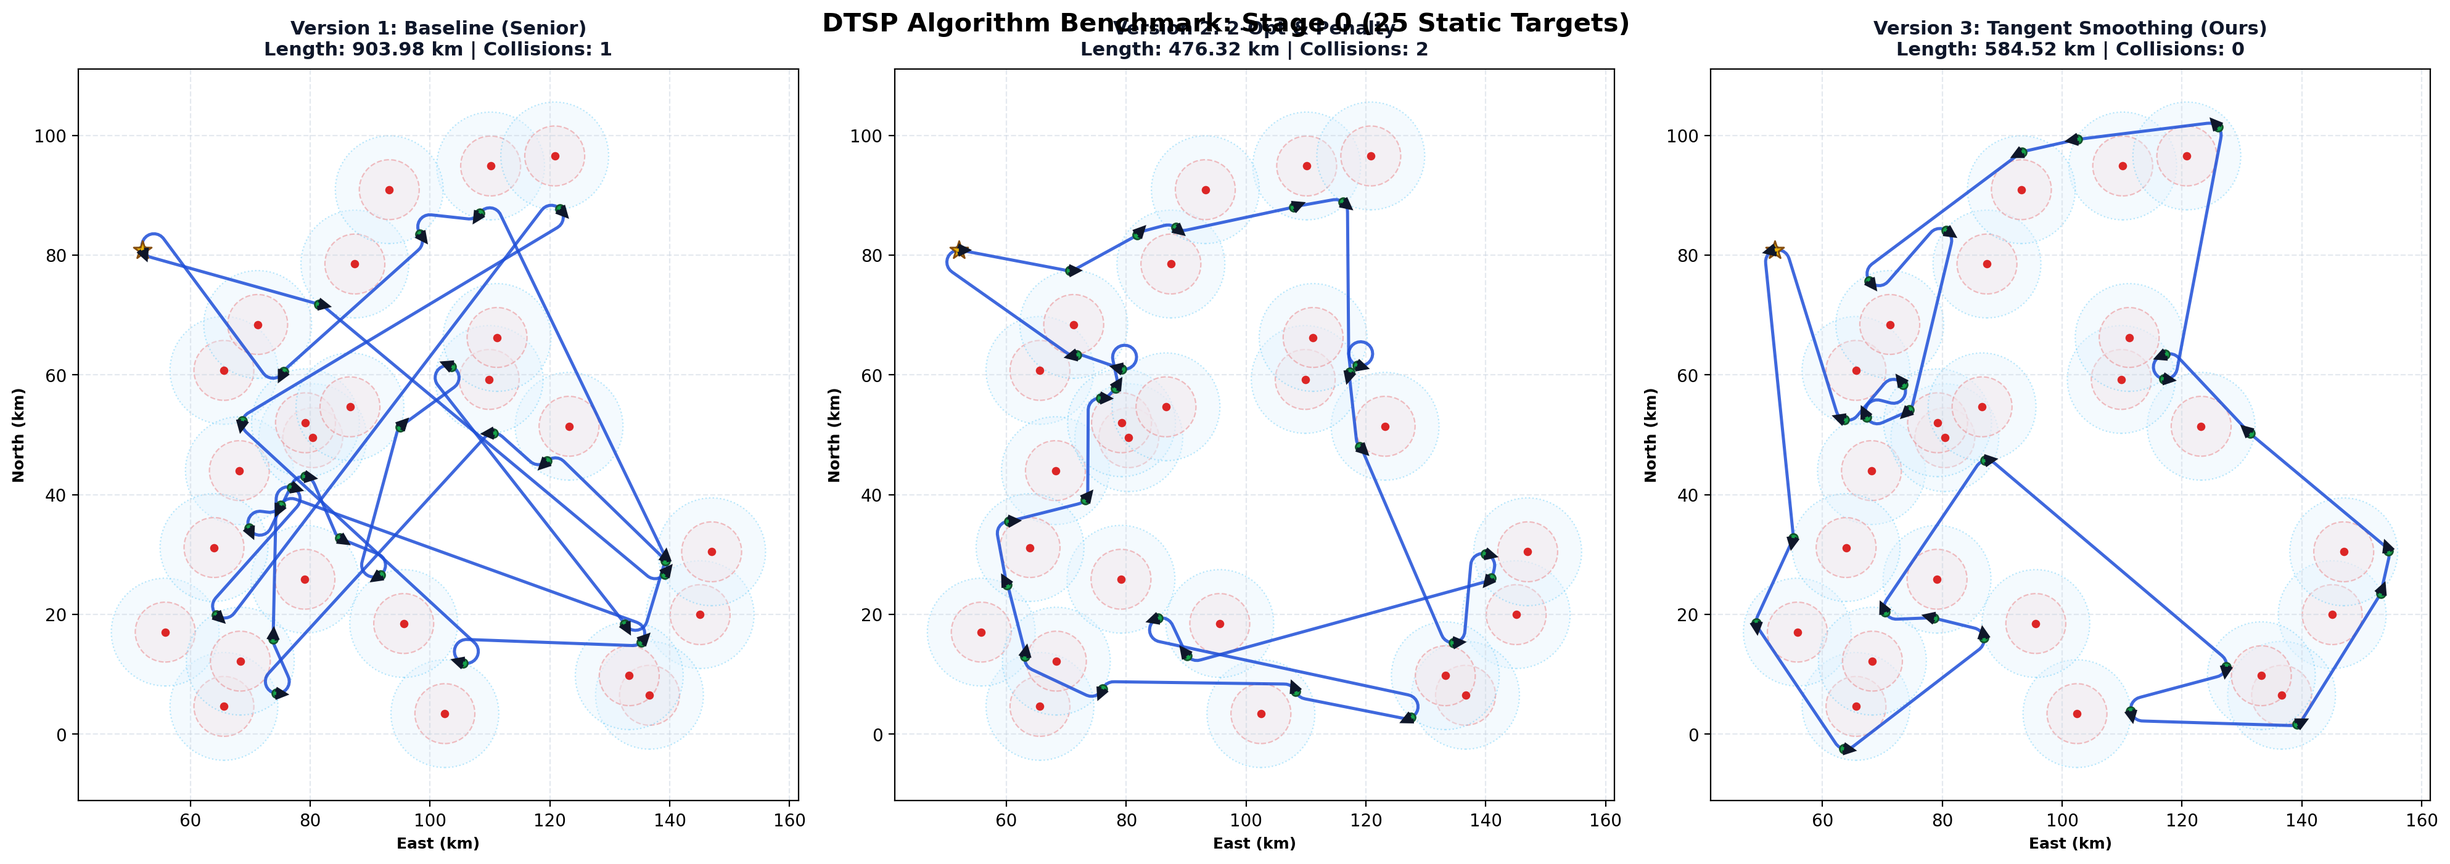
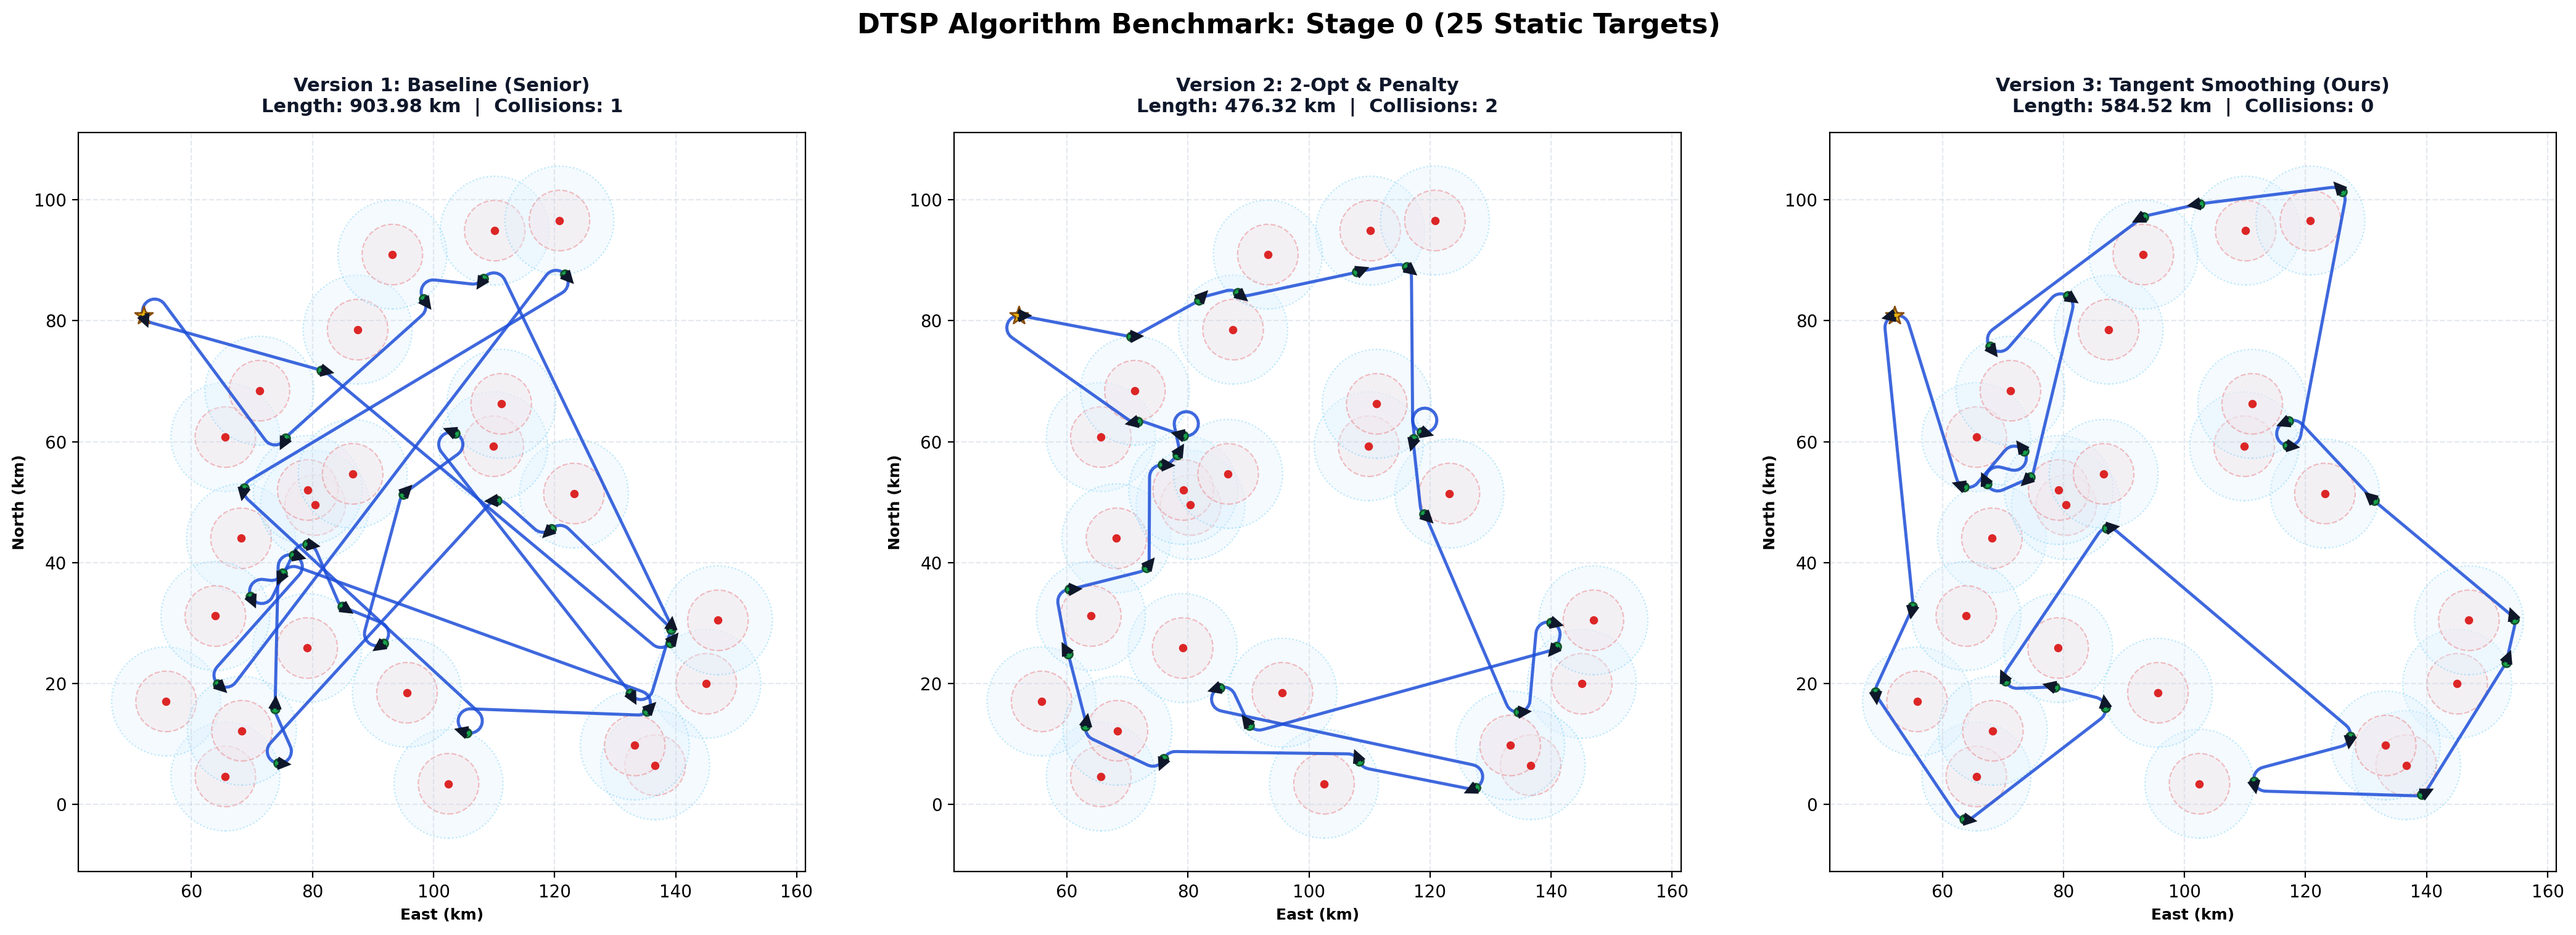
Fix: Adjust title spacing and layout rect to eliminate text overlap

diff --git a/compare_versions.py b/compare_versions.py
@@ -497,7 +497,7 @@ class Version3_TangentSmoothing(DTSPNSolverBase):
 
 def draw_single_panel(ax, centers, indices, points, start_node_idx, title, sub_title, cost_calculator):
     ax.set_facecolor('white')
-    ax.set_title(f"{title}\n{sub_title}", fontsize=11, fontweight='bold', pad=8, color='#0f172a')
+    ax.set_title(f"{title}\n{sub_title}", fontsize=11, fontweight='bold', pad=12, color='#0f172a')
     ax.set_xlabel("East (km)", fontsize=9, fontweight='bold')
     ax.set_ylabel("North (km)", fontsize=9, fontweight='bold')
     ax.grid(True, linestyle='--', color='#cbd5e1', alpha=0.5)
@@ -631,33 +631,35 @@ def run_benchmark():
     cost_calc = DubinsCost(2.0)
     
     # --- 圖 1: Stage 0 對比圖 ---
-    fig_0, axes_0 = plt.subplots(1, 3, figsize=(20, 6.8), dpi=200)
-    fig_0.suptitle("DTSP Algorithm Benchmark: Stage 0 (25 Static Targets)", fontsize=15, fontweight='bold', y=0.98)
+    fig_0, axes_0 = plt.subplots(1, 3, figsize=(22, 7.5), dpi=200)
+    fig_0.suptitle("DTSP Algorithm Benchmark: Stage 0 (25 Static Targets)", fontsize=16, fontweight='bold', y=0.98)
     
     draw_single_panel(axes_0[0], static_centers, v1_idx_0, v1_pts_0, start_node_idx, 
-                      "Version 1: Baseline (Senior)", f"Length: {v1_len_0:.2f} km | Collisions: {v1_col_0}", cost_calc)
+                      "Version 1: Baseline (Senior)", f"Length: {v1_len_0:.2f} km  |  Collisions: {v1_col_0}", cost_calc)
     draw_single_panel(axes_0[1], static_centers, v2_idx_0, v2_pts_0, start_node_idx, 
-                      "Version 2: 2-Opt & Penalty", f"Length: {v2_len_0:.2f} km | Collisions: {v2_col_0}", cost_calc)
+                      "Version 2: 2-Opt & Penalty", f"Length: {v2_len_0:.2f} km  |  Collisions: {v2_col_0}", cost_calc)
     draw_single_panel(axes_0[2], static_centers, v3_idx_0, v3_pts_0, start_node_idx, 
-                      "Version 3: Tangent Smoothing (Ours)", f"Length: {v3_len_0:.2f} km | Collisions: {v3_col_0}", cost_calc)
+                      "Version 3: Tangent Smoothing (Ours)", f"Length: {v3_len_0:.2f} km  |  Collisions: {v3_col_0}", cost_calc)
     
-    plt.tight_layout()
+    plt.tight_layout(rect=[0.02, 0.02, 0.98, 0.90])
+    plt.subplots_adjust(top=0.85, wspace=0.18)
     fig_0.savefig("comparison_stage_0.png", bbox_inches='tight', facecolor='white')
     plt.close(fig_0)
     print("[SUCCESS] Saved Stage 0 comparison: comparison_stage_0.png")
     
     # --- 圖 2: Stage 5 對比圖 ---
-    fig_5, axes_5 = plt.subplots(1, 3, figsize=(20, 6.8), dpi=200)
-    fig_5.suptitle("DTSP Algorithm Benchmark: Stage 5 (30 Total Targets)", fontsize=15, fontweight='bold', y=0.98)
+    fig_5, axes_5 = plt.subplots(1, 3, figsize=(22, 7.5), dpi=200)
+    fig_5.suptitle("DTSP Algorithm Benchmark: Stage 5 (30 Total Targets)", fontsize=16, fontweight='bold', y=0.98)
     
     draw_single_panel(axes_5[0], v1_centers, v1_idx_5, v1_pts_5, start_node_idx, 
-                      "Version 1: Baseline (Senior)", f"Length: {v1_len_5:.2f} km | Collisions: {v1_col_5}", cost_calc)
+                      "Version 1: Baseline (Senior)", f"Length: {v1_len_5:.2f} km  |  Collisions: {v1_col_5}", cost_calc)
     draw_single_panel(axes_5[1], v2_centers, v2_idx_5, v2_pts_5, start_node_idx, 
-                      "Version 2: 2-Opt & Penalty", f"Length: {v2_len_5:.2f} km | Collisions: {v2_col_5}", cost_calc)
+                      "Version 2: 2-Opt & Penalty", f"Length: {v2_len_5:.2f} km  |  Collisions: {v2_col_5}", cost_calc)
     draw_single_panel(axes_5[2], v3_centers, v3_idx_5, v3_pts_5, start_node_idx, 
-                      "Version 3: Tangent Smoothing (Ours)", f"Length: {v3_len_5:.2f} km | Collisions: {v3_col_5}", cost_calc)
+                      "Version 3: Tangent Smoothing (Ours)", f"Length: {v3_len_5:.2f} km  |  Collisions: {v3_col_5}", cost_calc)
     
-    plt.tight_layout()
+    plt.tight_layout(rect=[0.02, 0.02, 0.98, 0.90])
+    plt.subplots_adjust(top=0.85, wspace=0.18)
     fig_5.savefig("comparison_stage_5.png", bbox_inches='tight', facecolor='white')
     plt.close(fig_5)
     print("[SUCCESS] Saved Stage 5 comparison: comparison_stage_5.png")
